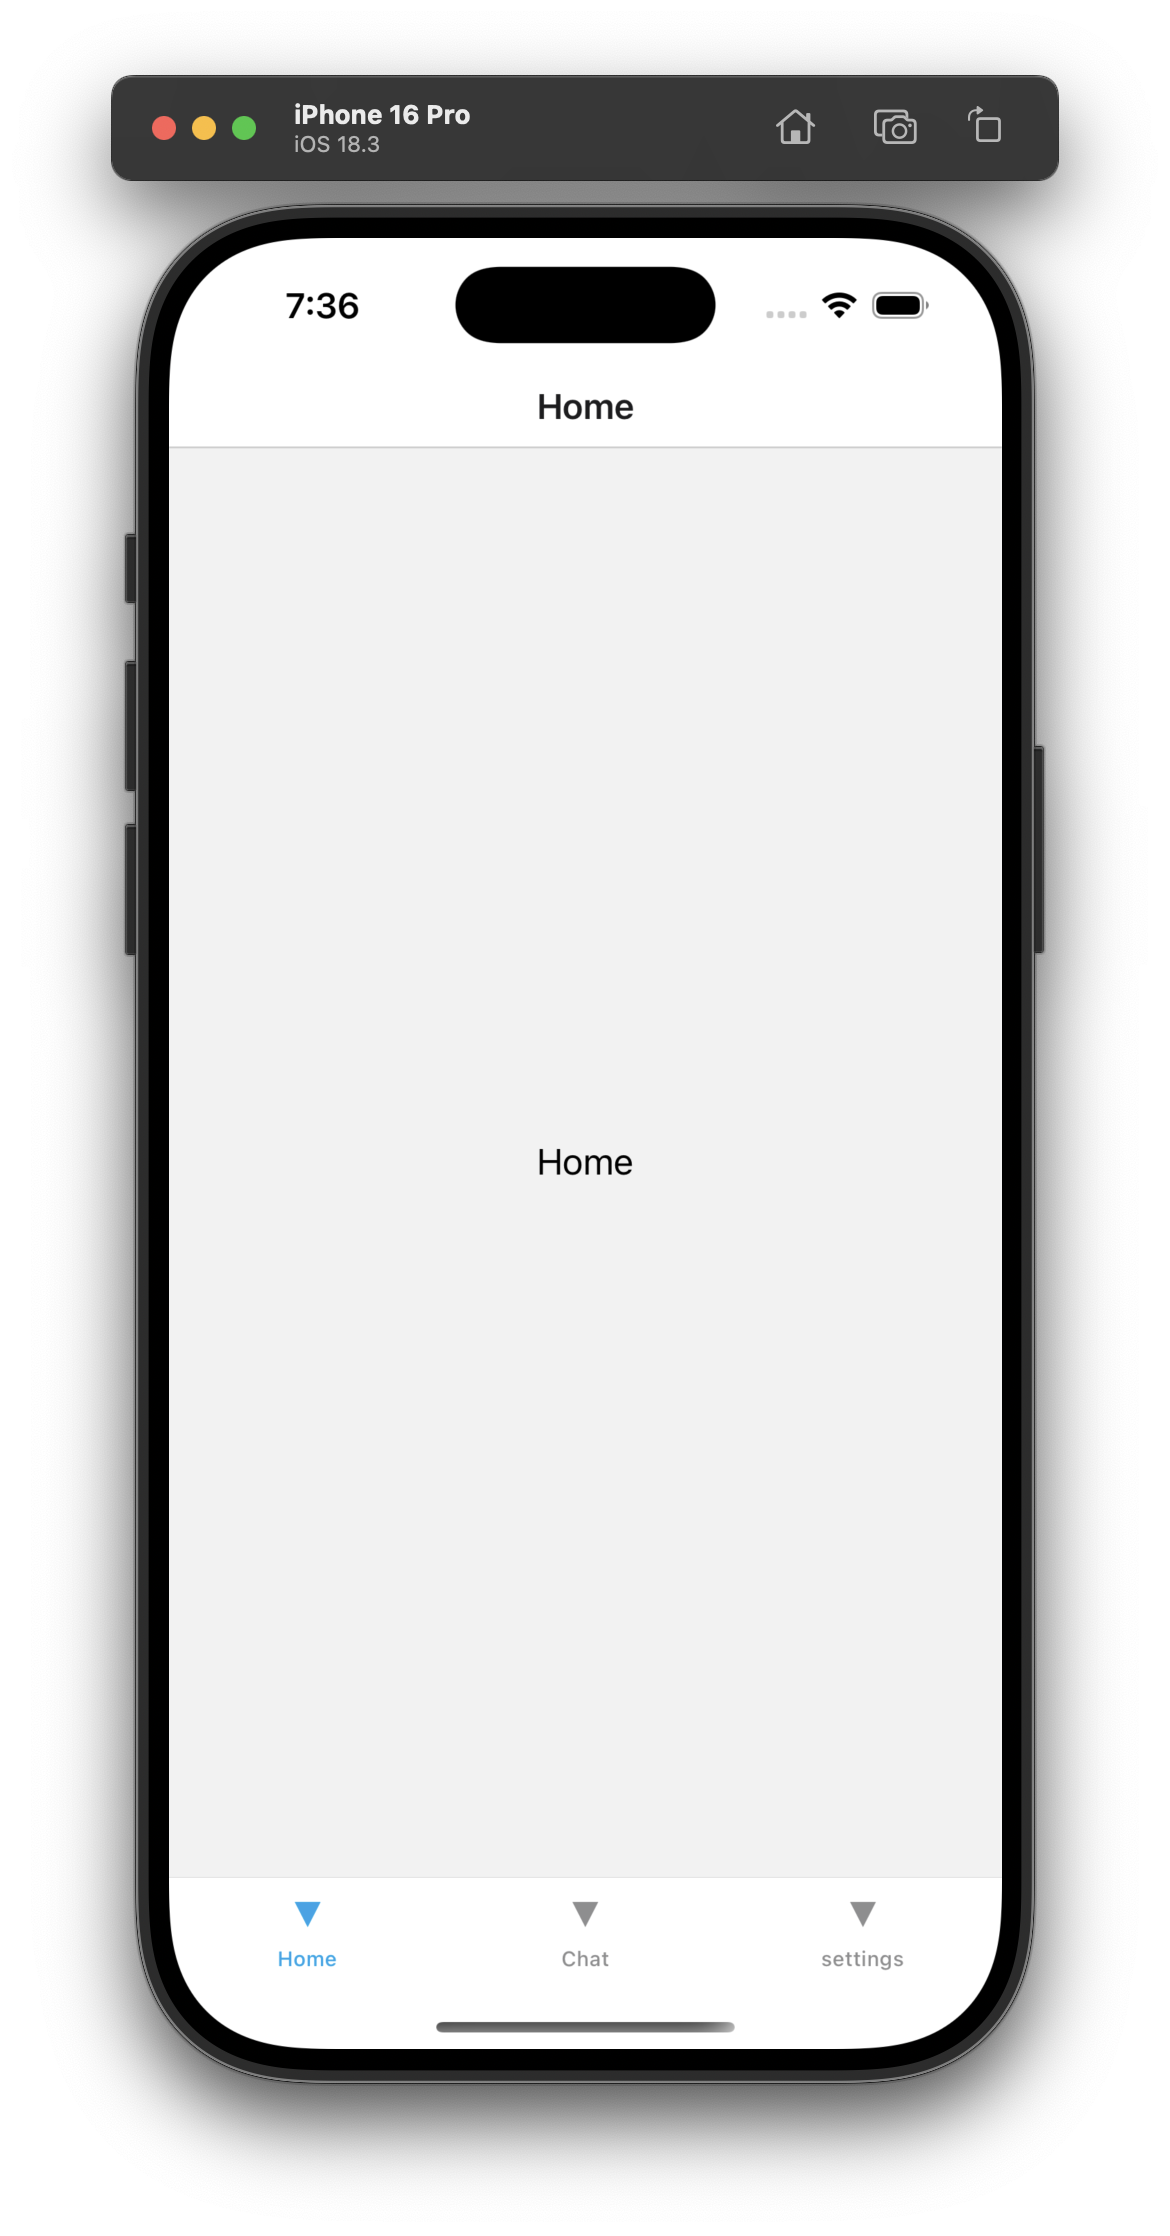
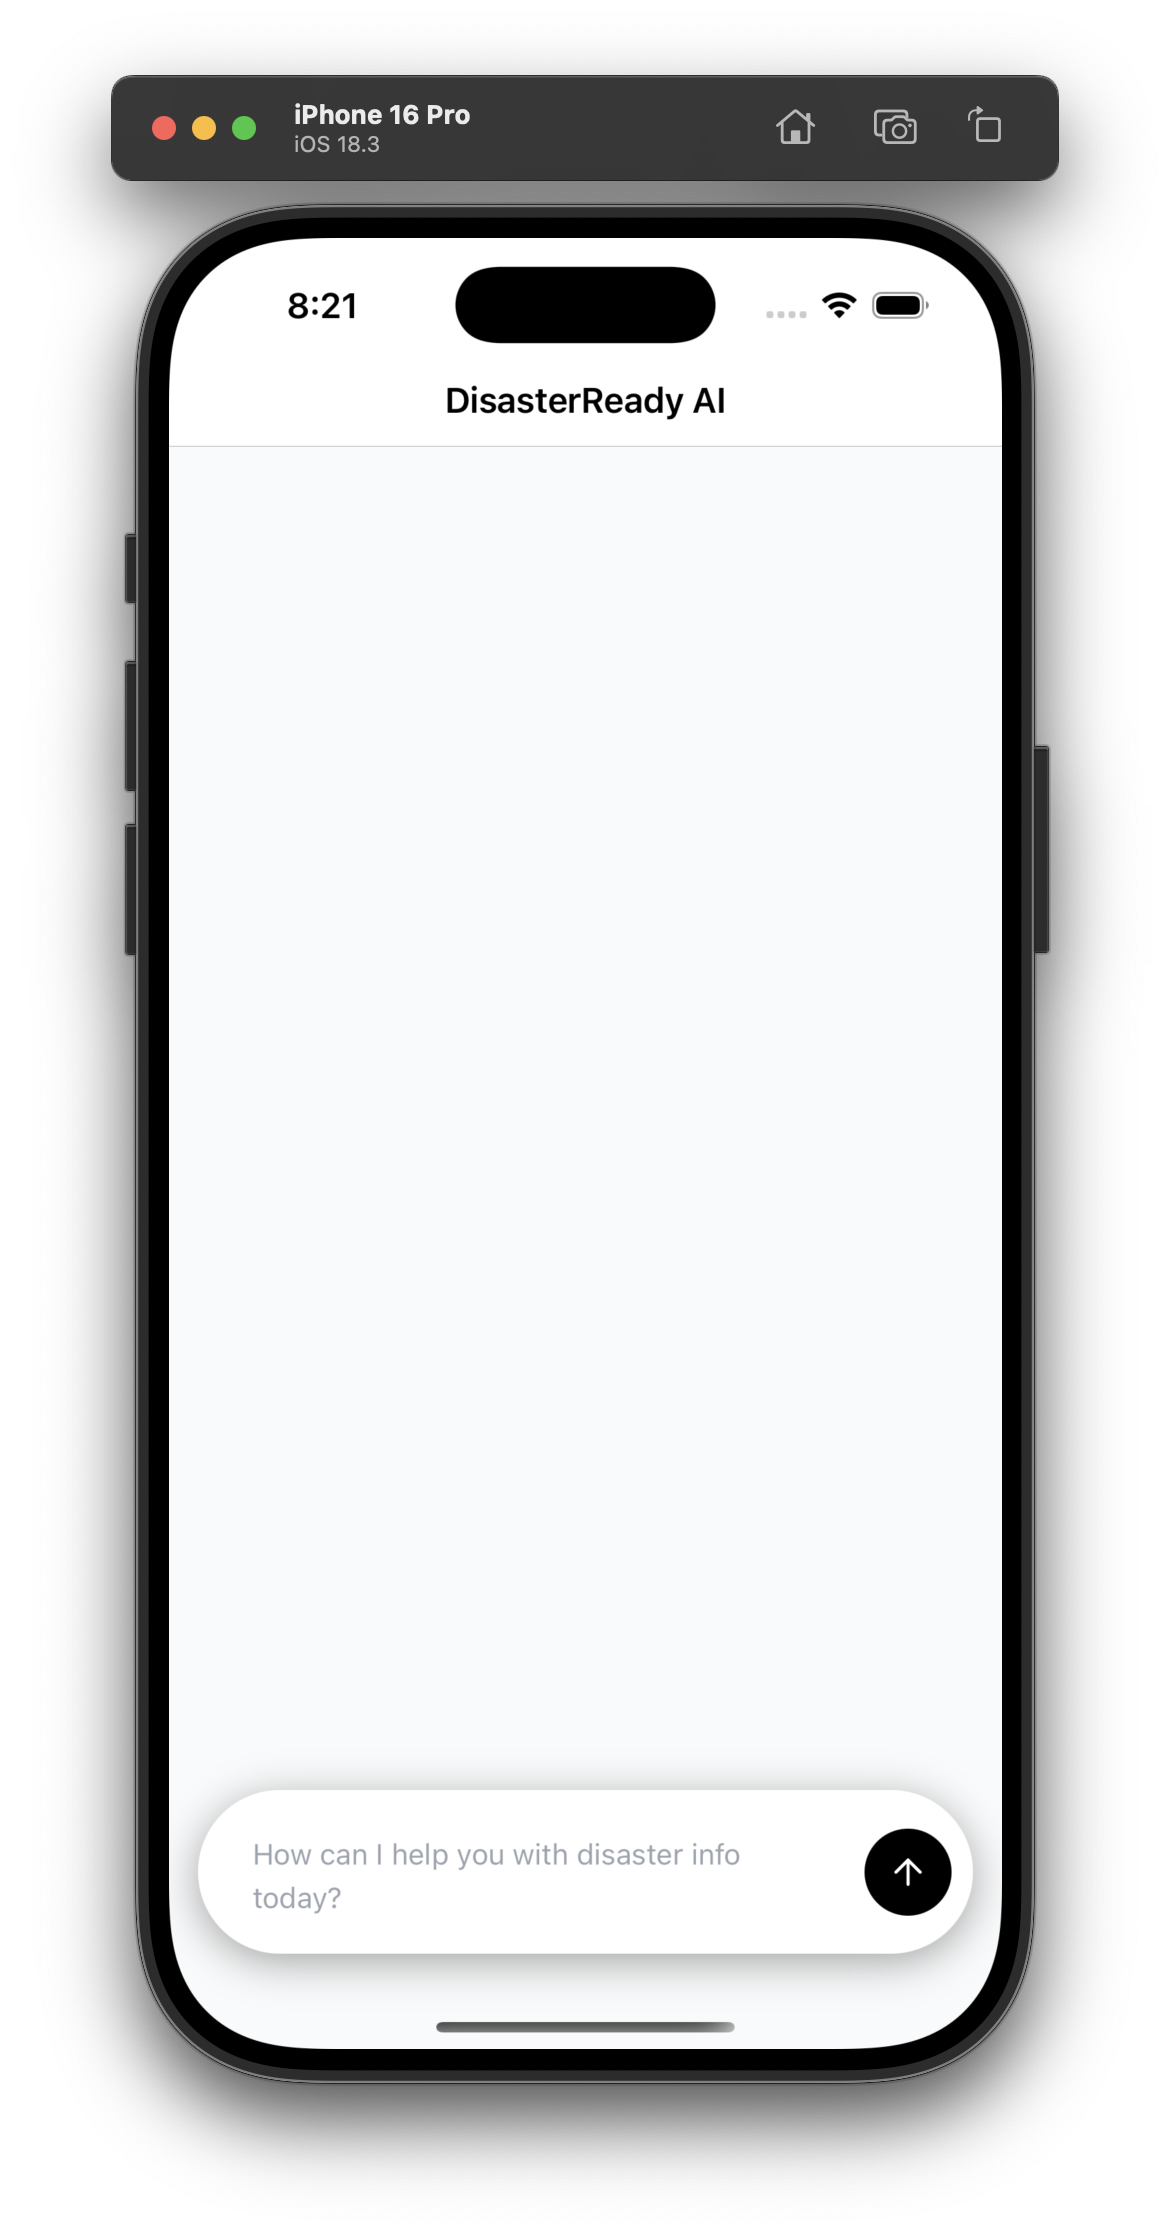
update: preview

diff --git a/app/index.tsx b/app/index.tsx
@@ -28,9 +28,9 @@ export default function Chat() {
 
       {/* Floating Composer */}
       <View style={{ paddingBottom: insets.bottom + 12 }} className="px-4">
-        <View className="flex-row items-center rounded-full bg-white px-3 py-2 shadow-lg">
+        <View className="flex-row items-center rounded-full bg-white px-3 py-3 shadow-lg">
           <Input
-            placeholder="Type a message..."
+            placeholder="How can I help you with disaster info today?"
             maxRows={5}
             className="mr-2 flex-1"
             value={text}
